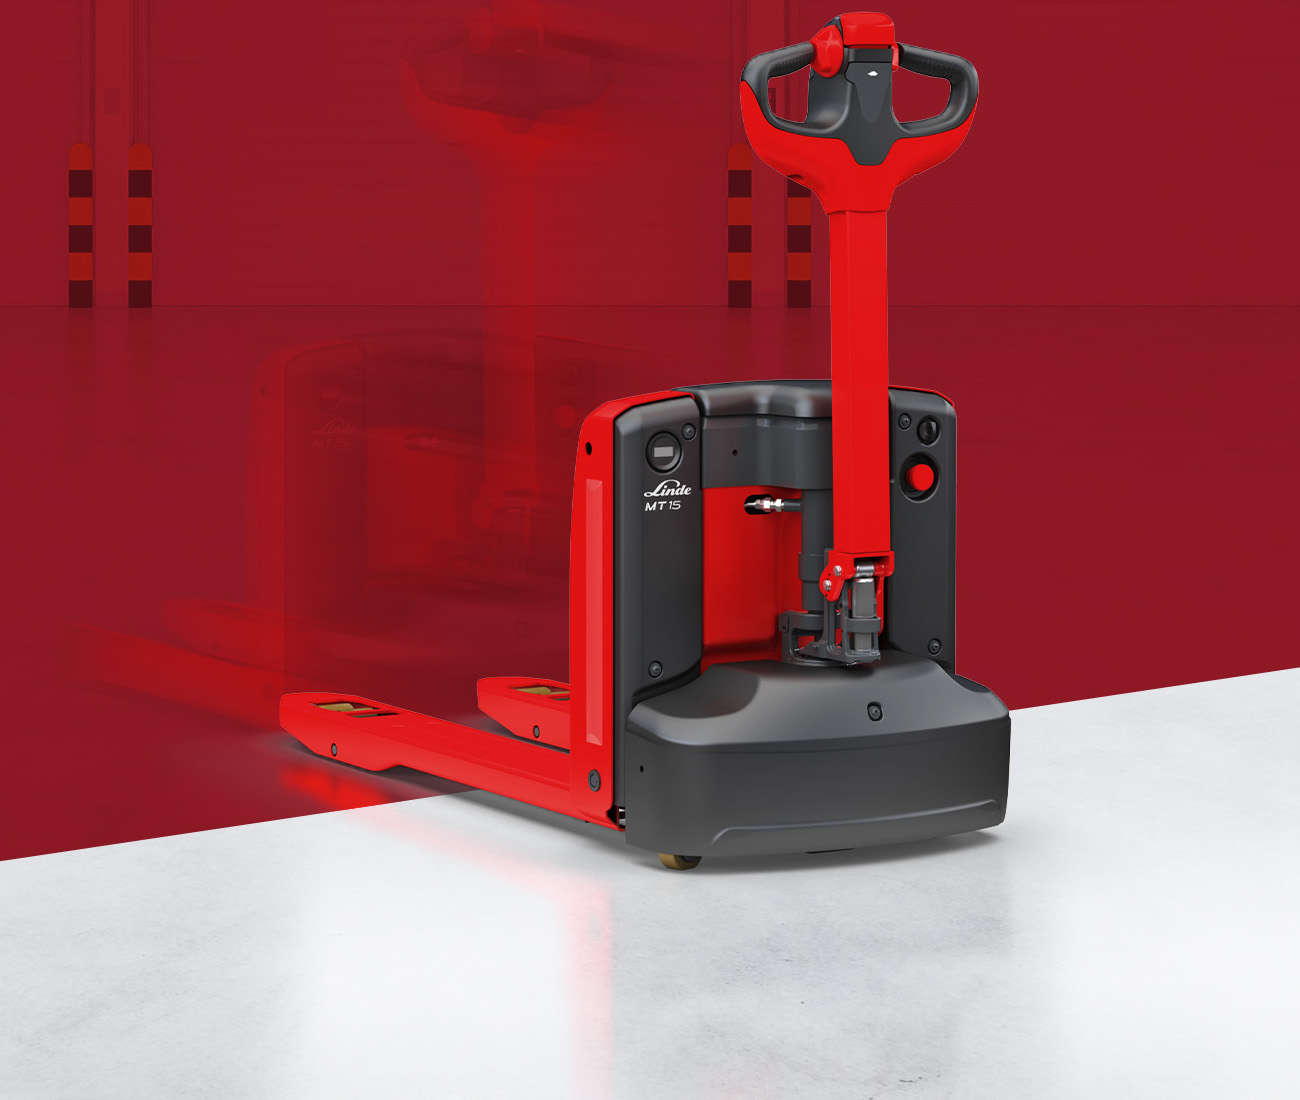
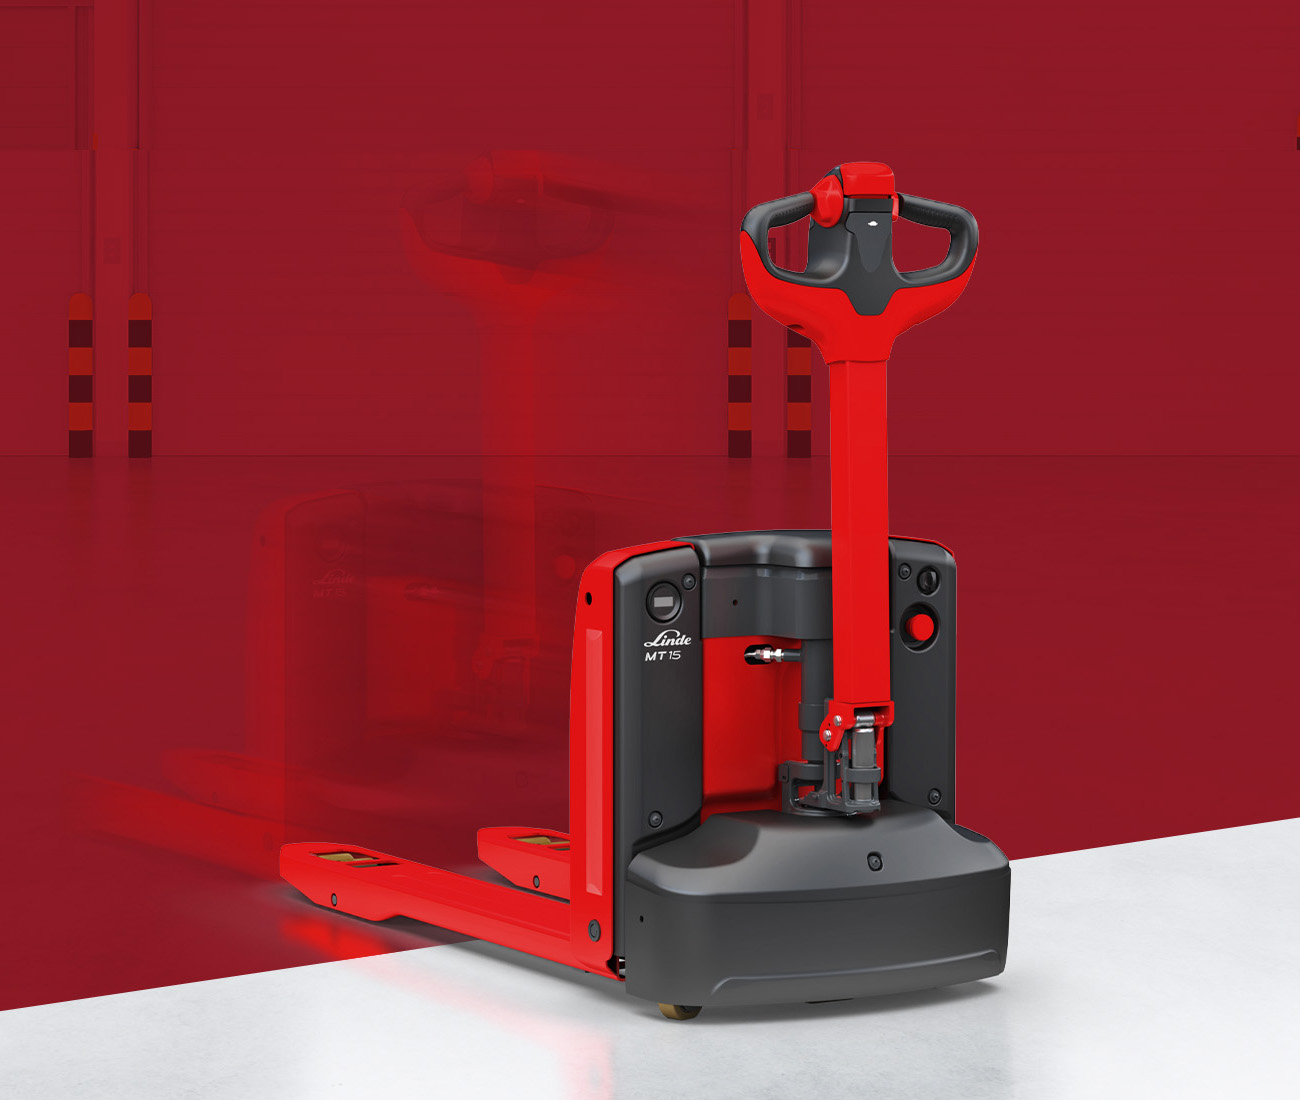
add image to big deal

diff --git a/css/styles.css b/css/styles.css
@@ -3205,8 +3205,8 @@ body > header.tempNavigation span.pipe {
   }
   div.mastheadSlider div.brandModeHome div.content {
     background-blend-mode: multiply;
-    background: -webkit-gradient(linear, left top, right bottom, from(#c8102e), color-stop(#c8102e), to(rgba(0,0,0,0.1))) !important;
-    background: linear-gradient(to bottom right, #c8102e, #c8102e, rgba(0,0,0,0.1)) !important;
+    background: -webkit-gradient(linear, left top, right bottom, from(#c8102e), to(rgba(0,0,0,0.1))) !important;
+    background: linear-gradient(to bottom right, #c8102e, rgba(0,0,0,0.1)) !important;
   }
   div.bodyContent div.innerContent {
     padding-top: 7vw;

diff --git a/home.html b/home.html
@@ -161,7 +161,7 @@
     
     <div class="contentWrapper brandModeHome">
         <div class="bgImage picturefill-background">
-            <span data-src="/images/bigdeal/offer-s.jpg"></span><!-- ph -->
+            <span data-src="/images/bigdeal/offer-m.jpg"></span><!-- ph -->
             <span data-src="/images/bigdeal/offer-m.jpg" data-media="(min-width: 1100px)"></span><!-- desktop -->
         </div>
         <div class="content" style="background-image: url(/images/misc/arrowoverlay5-brand.webp);">
